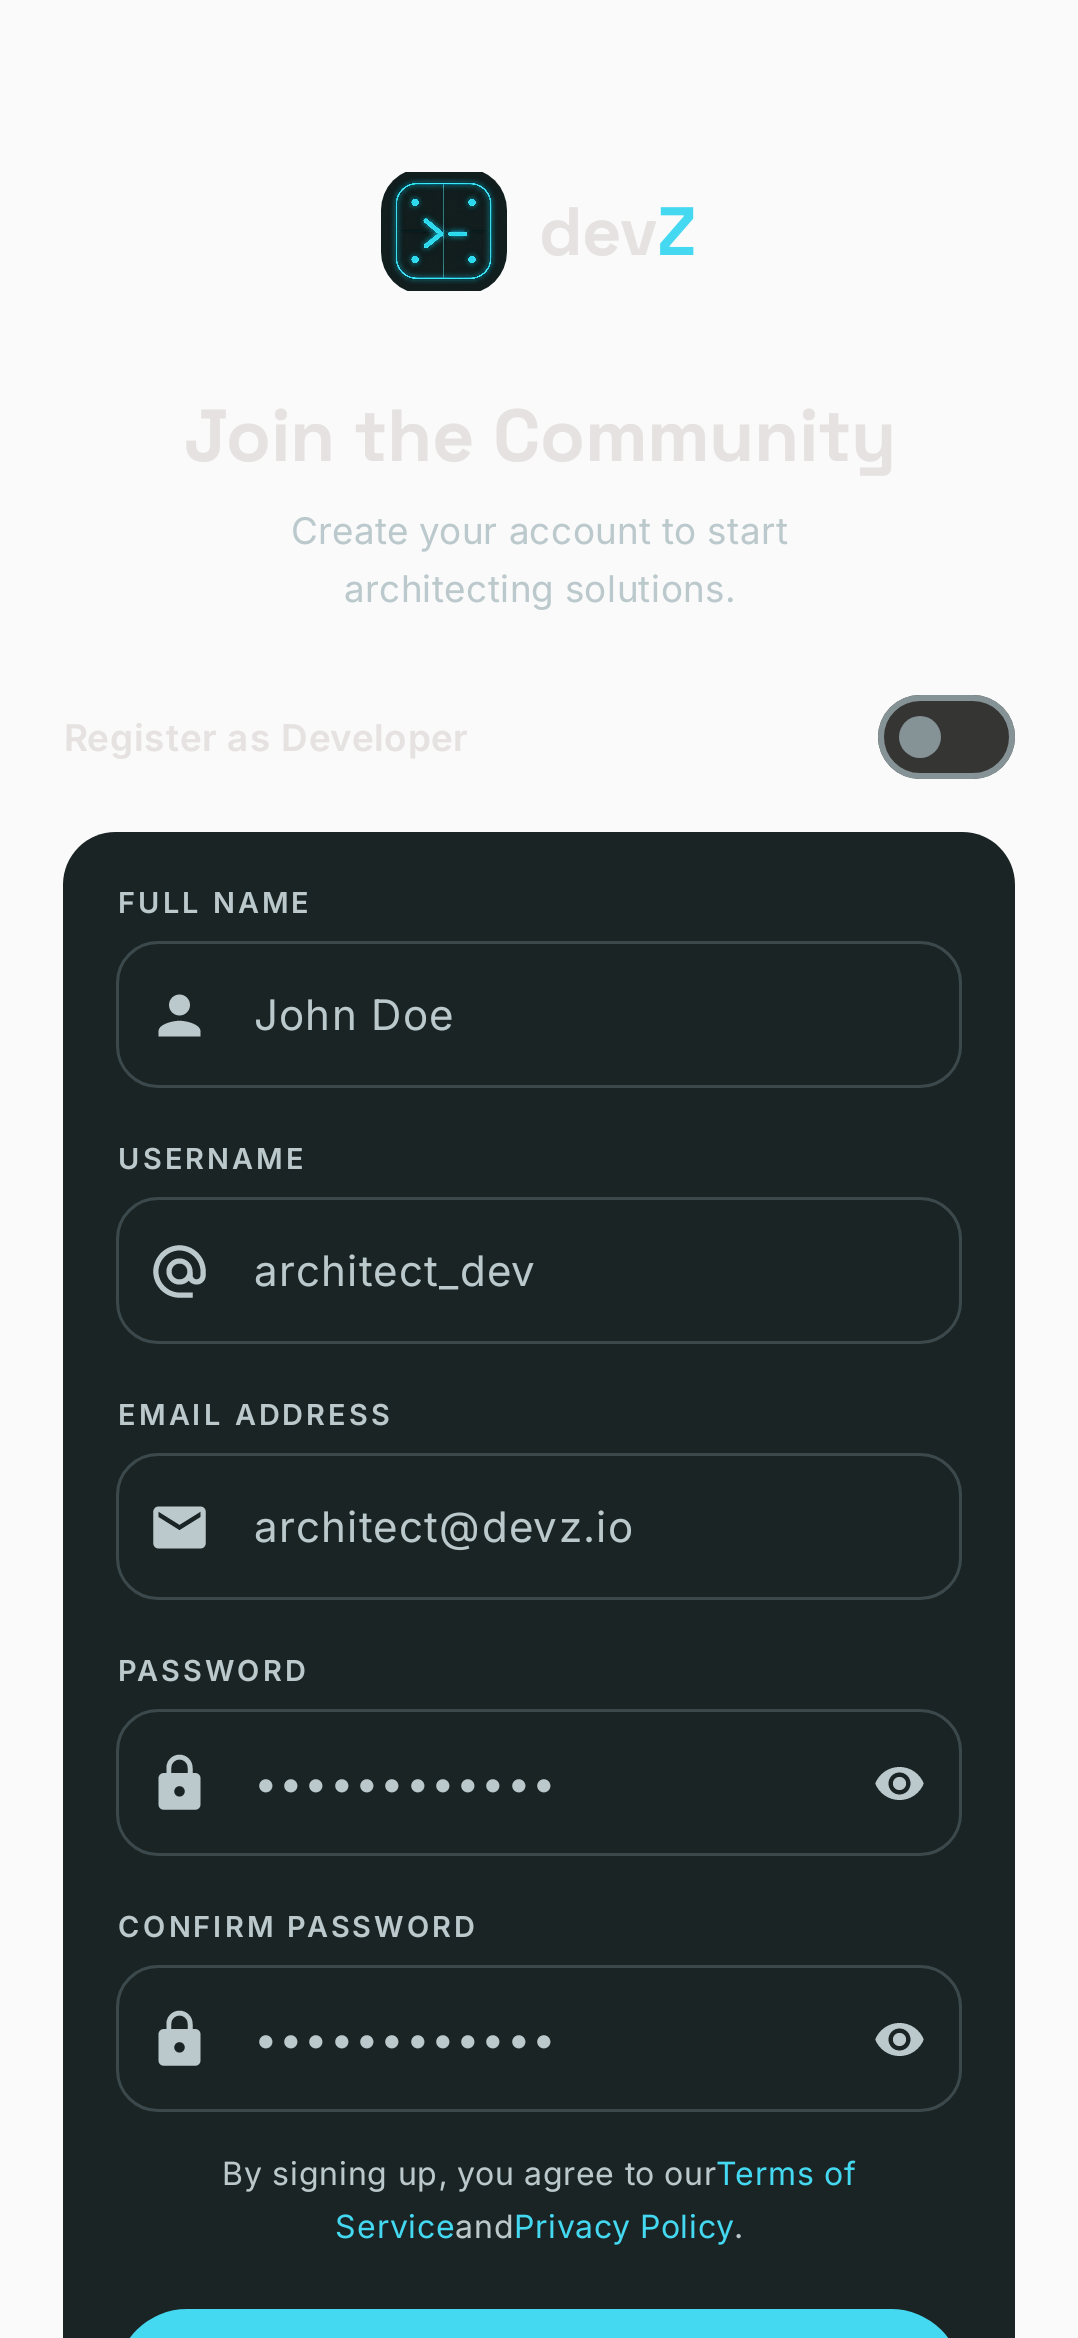
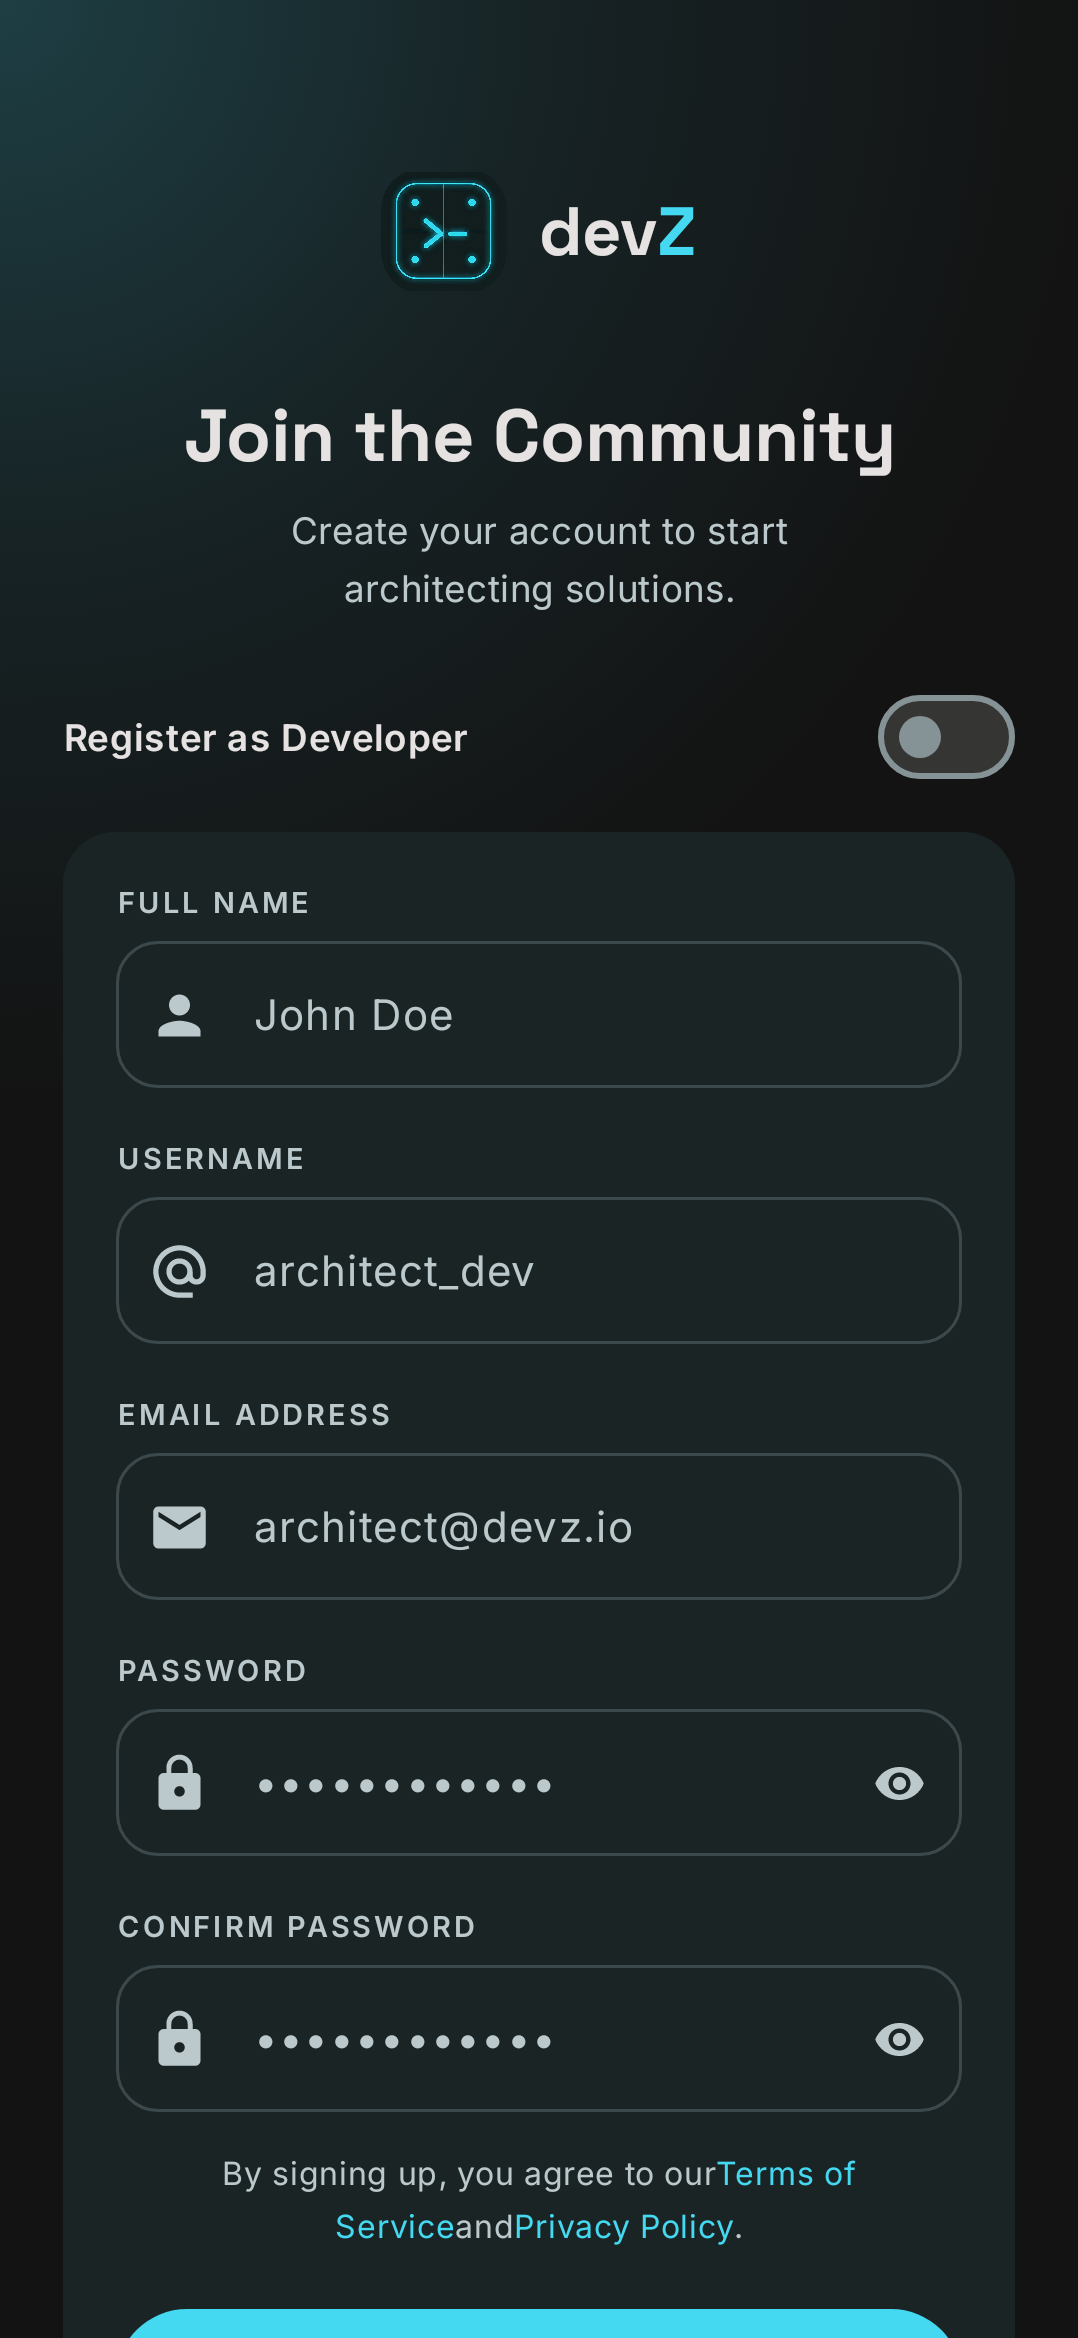
test: render auth screenshots with brand background

diff --git a/app/src/test/java/com/mohamed/devz/gallery/ScreenshotGalleryTest.kt b/app/src/test/java/com/mohamed/devz/gallery/ScreenshotGalleryTest.kt
@@ -31,6 +31,7 @@ import androidx.compose.ui.Alignment
 import androidx.compose.ui.Modifier
 import androidx.compose.ui.draw.clip
 import androidx.compose.ui.draw.drawBehind
+import androidx.compose.ui.geometry.Offset
 import androidx.compose.ui.graphics.Brush
 import androidx.compose.ui.graphics.Color
 import androidx.compose.ui.graphics.Paint
@@ -111,6 +112,7 @@ import com.mohamed.devz.feature.question.presentation.view_questions.util.Questi
 import com.mohamed.devz.feature.settings.presentation.AppLanguage
 import com.mohamed.devz.feature.settings.presentation.SettingsContent
 import com.mohamed.devz.feature.splash.presentation.SplashContent
+import com.mohamed.devz.ui.components.BrandBackground
 import com.mohamed.devz.ui.theme.DevzTheme
 import com.mohamed.devz.ui.theme.ThemeMode
 import org.junit.Rule
@@ -376,28 +378,32 @@ class ScreenshotGalleryTest {
 // ── Screen content (mirrors the private fixtures in each screen's @Preview) ──
 
 private val loginUi: @Composable () -> Unit = {
-    LoginContent(
-        state = LoginState(),
-        onNavigateToRegister = {},
-        onUsernameChanged = {},
-        onPasswordChanged = {},
-        onLoginClicked = {},
-    )
+    BrandBackground {
+        LoginContent(
+            state = LoginState(),
+            onNavigateToRegister = {},
+            onUsernameChanged = {},
+            onPasswordChanged = {},
+            onLoginClicked = {},
+        )
+    }
 }
 
 private val signupUi: @Composable () -> Unit = {
-    SignUpContent(
-        state = SignUpState(),
-        onNavigateToLogin = {},
-        onCompanyNameChanged = {},
-        onFullNameChanged = {},
-        onUsernameChanged = {},
-        onEmailChanged = {},
-        onPasswordChanged = {},
-        onConfirmPasswordChanged = {},
-        onIsCompanyToggled = {},
-        onRegisterClicked = {},
-    )
+    BrandBackground(accentCenter = Offset(0.65f, 0.58f)) {
+        SignUpContent(
+            state = SignUpState(),
+            onNavigateToLogin = {},
+            onCompanyNameChanged = {},
+            onFullNameChanged = {},
+            onUsernameChanged = {},
+            onEmailChanged = {},
+            onPasswordChanged = {},
+            onConfirmPasswordChanged = {},
+            onIsCompanyToggled = {},
+            onRegisterClicked = {},
+        )
+    }
 }
 
 private val bannedUi: @Composable () -> Unit = { BannedScreen() }
